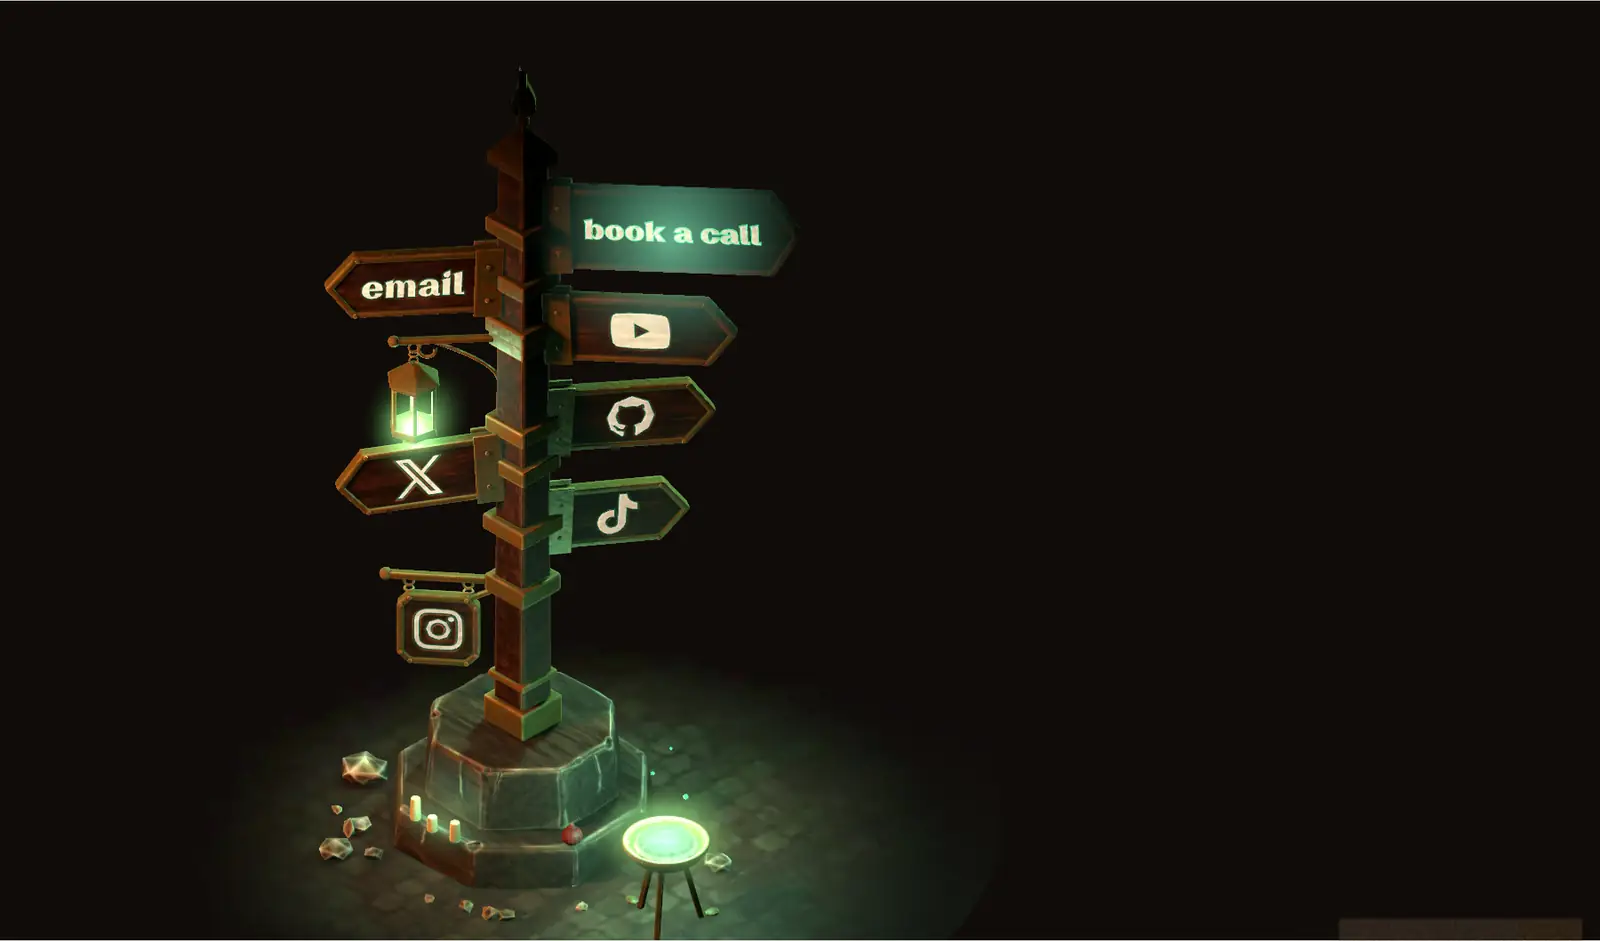
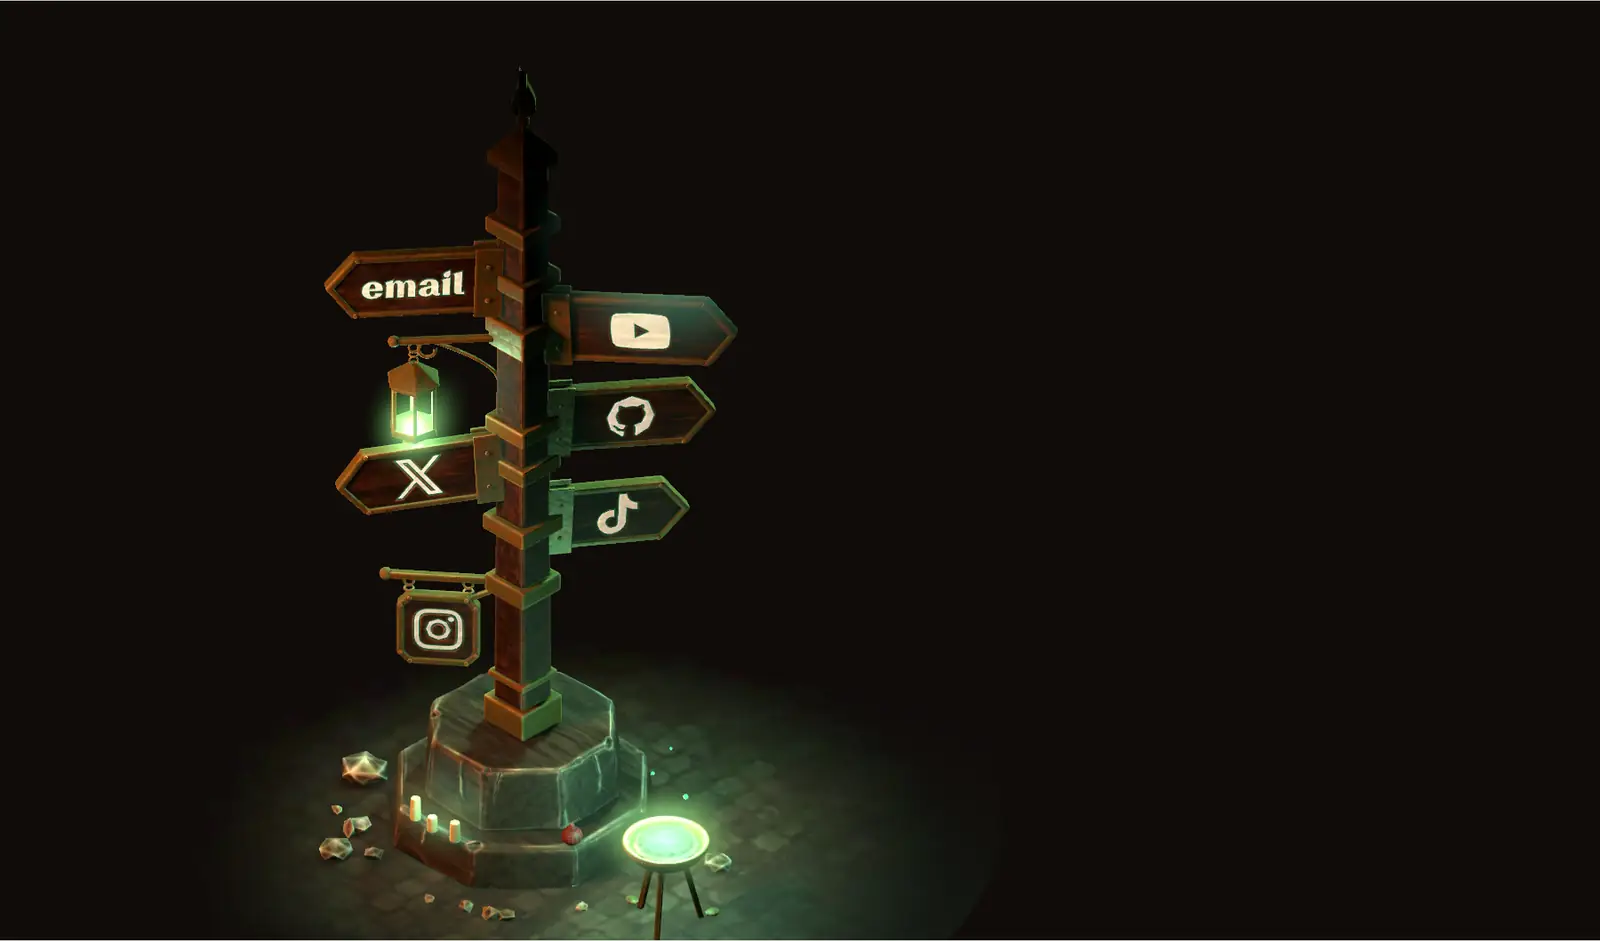
Pillar: the call arm gilded like the site's call (gold-leaf frame on dark enamel live; the Gilded arm over the poster, which is rendered without that arm); the email sign is a plain mailto again, since MailLink now renders the gilded frame

Changed region(s): [[0.3438, 0.1849, 0.5, 0.3082], [0.8125, 0.9554, 1.0, 1.0]]

diff --git a/src/components/world/pillarScene.ts b/src/components/world/pillarScene.ts
@@ -35,8 +35,9 @@ const LIGHT: Partial<Record<FlameKind, { r: number; cd: number }>> = {
 };
 /** Bronze reads grey-green at metallic 1 with no environment map; 0.35 matches the Cycles warm brass. */
 const BRONZE_METALNESS = 0.35;
-/** "book a call", the main sign, and everything that sets it apart: it rests half lit and its halo is larger. Restyle that arm here. */
-const LOOK: Partial<Record<Sign, { rest: number; halo: number }>> = { cal: { rest: 0.5, halo: 1.8 } };
+/** "book a call", the main sign, and everything that sets it apart: it rests half lit, its halo is larger, and it is
+ *  gilded like the site's call (src/components/gilded): a gold-leaf frame around a dark enamel face. Restyle that arm here. */
+const LOOK: Partial<Record<Sign, { rest: number; halo: number; frame?: string; face?: string }>> = { cal: { rest: 0.5, halo: 1.8, frame: "#e6c46c", face: "#06140e" } };
 
 type Spring = { x: number; v: number };
 const spring = (s: Spring, to: number, dt: number, k: number, z: number) => {
@@ -146,6 +147,14 @@ export function mount(host: HTMLElement, ctx: Parameters<Mount>[1], o: PillarOpt
         scene.add(halo);
         const parentQ = node.parent ? node.parent.getWorldQuaternion(new THREE.Quaternion()) : new THREE.Quaternion();
         const toLocal = parentQ.clone().invert();
+        if (ctx.bare && LOOK[k]?.frame) node.visible = false;
+        const face = LOOK[k]?.face;
+        if (face)
+          own(find("board_" + k), (m) => {
+            const c = Object.assign(m.clone(), { map: null, normalMap: null });
+            c.color.set(face);
+            return c;
+          });
         arms.push({
           k,
           node,
@@ -156,7 +165,11 @@ export function mount(host: HTMLElement, ctx: Parameters<Mount>[1], o: PillarOpt
           label,
           icon: own(icon, (m) => new THREE.MeshBasicMaterial({ map: m.map, lightMap: m.lightMap, lightMapIntensity: m.lightMapIntensity })),
           edge: own(find("edge_" + k), () => new THREE.MeshBasicMaterial(), true),
-          frame: own(find("frame_" + k), (m) => m.clone()),
+          frame: own(find("frame_" + k), (m) => {
+            const c = m.clone();
+            if (LOOK[k]?.frame) Object.assign(c, { map: null, metalness: BRONZE_METALNESS, roughness: 0.3 }).color.set(LOOK[k]!.frame!);
+            return c;
+          }),
           halo,
           hot: { x: LOOK[k]?.rest ?? 0, v: 0 },
           knock: { x: 0, v: 0 },
@@ -186,7 +199,7 @@ export function mount(host: HTMLElement, ctx: Parameters<Mount>[1], o: PillarOpt
   }
 
   const q = new THREE.Quaternion(), q2 = new THREE.Quaternion(), p = new THREE.Vector3();
-  const white = new THREE.Color(1, 1, 1);
+  const white = new THREE.Color(1, 1, 1), tint = new THREE.Color();
 
   function frame(dt: number) {
     S.time.value += dt;
@@ -212,9 +225,11 @@ export function mount(host: HTMLElement, ctx: Parameters<Mount>[1], o: PillarOpt
       arm.node.position.y = arm.baseY + 0.03 * up;
       for (const m of arm.icon) m.color.copy(white).lerp(glow, up).multiplyScalar(1 + 0.8 * up);
       for (const m of arm.edge) m.color.copy(emit).multiplyScalar(0.15 + 1.6 * h);
+      const gold = LOOK[arm.k]?.frame;
       for (const m of arm.frame) {
-        m.color.copy(white).lerp(accent, 0.45 * up);
-        m.emissive.copy(accent).multiplyScalar(0.25 * up);
+        m.color.set(gold ?? white).lerp(accent, 0.45 * up);
+        if (gold) m.emissive.set(gold).multiplyScalar(0.3 * (1 - up)).add(tint.copy(accent).multiplyScalar(0.25 * up));
+        else m.emissive.copy(accent).multiplyScalar(0.25 * up);
       }
       (arm.halo.material as THREE.ShaderMaterial).uniforms.uA.value = 0.9 * h;
       const el = o.el(arm.k);

diff --git a/src/components/world/Pillar.tsx b/src/components/world/Pillar.tsx
@@ -2,7 +2,8 @@
 
 import { useCallback } from "react";
 import { BookLink } from "@/components/BookLink";
-import { MailLink } from "@/components/MailLink";
+import { Gilded } from "@/components/gilded/Gilded";
+import { MAIL, copyEmail, trackEmail } from "@/lib/mail";
 import { SITE } from "@/content/site";
 import { SOCIALS } from "@/lib/profile";
 import { Flames } from "./kit/Flames";
@@ -12,7 +13,9 @@ import type { Sign } from "./pillarScene";
 // The footer's object: a waymarker at a crossroads in the underworld, one sign per way out (./pillarScene on the world
 // kit's Stage). Each sign is a real link laid over the object: live, the scene moves it onto its sign every frame and
 // lights the sign for it; over the poster (phones, weak GPUs, reduced motion) it sits where the poster shows that sign.
-// "book a call" and "email" are the top arms, so booking lives on the pillar itself.
+// "book a call" and "email" are the top arms, so booking lives on the pillar itself. The call's arm is gilded like the
+// site's call: live, the 3D arm is gold leaf on dark enamel; over the poster (rendered without that arm) it is the
+// Gilded arm itself.
 
 const SOCIAL = ["x", "github", "instagram", "tiktok", "youtube"] as const;
 const SIGNS: readonly Sign[] = ["cal", "email", ...SOCIAL];
@@ -53,11 +56,20 @@ export function Pillar() {
             <BookLink src="footer-pillar">
               <span className="vh">{SITE.cta}</span>
             </BookLink>
+            <span className="pl-gild">
+              <Gilded variant="arm" src="footer-pillar" />
+            </span>
           </span>
           <span className="pl-a" data-sign="email" style={at("email")}>
-            <MailLink src="footer-pillar">
+            <a
+              href={MAIL}
+              onClick={() => {
+                trackEmail("footer-pillar");
+                void copyEmail();
+              }}
+            >
               <span className="vh">email</span>
-            </MailLink>
+            </a>
           </span>
           {SOCIAL.map((k) => (
             <span key={k} className="pl-a" data-sign={k} style={at(k)}>

diff --git a/src/styles/footer.css b/src/styles/footer.css
@@ -17,6 +17,10 @@
 .pl-a > a:focus-visible::after, .pl-stage[data-mode="poster"] .pl-a > a:hover::after { opacity: 1; }
 .pl-stage[data-mode="poster"] .pl-a > a:active { transform: scale(0.96); transition-duration: 90ms; }
 .vh { position: absolute; width: 1px; height: 1px; overflow: hidden; clip-path: inset(50%); white-space: nowrap; }
+/* the call's sign: live, the 3D arm is gilded and the plain link rides it; over the poster (rendered without that arm)
+   it is the site's gilded call as a sign (Gilded arm) */
+.pl-gild { position: absolute; left: 50%; top: 50%; translate: -50% -50%; white-space: nowrap; }
+.pl-stage[data-mode="live"] .pl-gild, .pl-stage[data-mode="poster"] .pl-a.main > a { display: none; }
 
 .foot-row { display: flex; flex-wrap: wrap; justify-content: space-between; align-items: center; gap: 0 24px; padding: 6px var(--g) calc(var(--dock) + 8px); box-shadow: inset 0 1px 0 rgb(248 227 194 / 0.14); font: 700 18px/1.2 var(--f-bar); letter-spacing: -0.02em; }
 .foot-c { color: #b9a184; }
@@ -33,6 +37,7 @@
   .pl-stage { aspect-ratio: 390 / 700; }
   .pl-a { left: calc(var(--mx) * 100%); top: calc(var(--my) * 100%); width: 27%; height: 7%; min-height: 48px; }
   .pl-a.main { width: 40%; }
+  .pl-gild .gl { font-size: 15px; --h: 44px; }
   .pl-a[data-sign="instagram"] { width: 16%; height: 9.5%; }
   .foot-row { display: grid; gap: 4px; padding: 12px var(--g) calc(var(--dock) + 12px); }
 }
